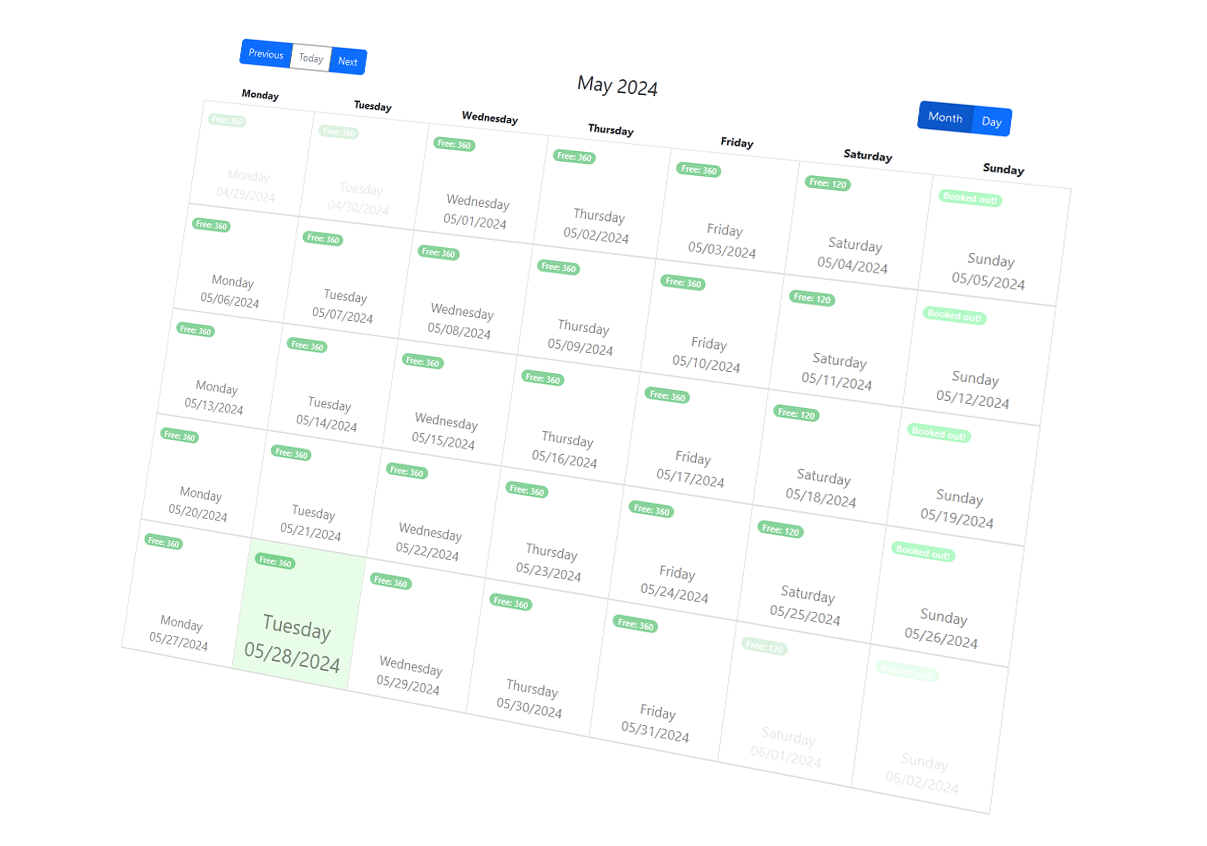
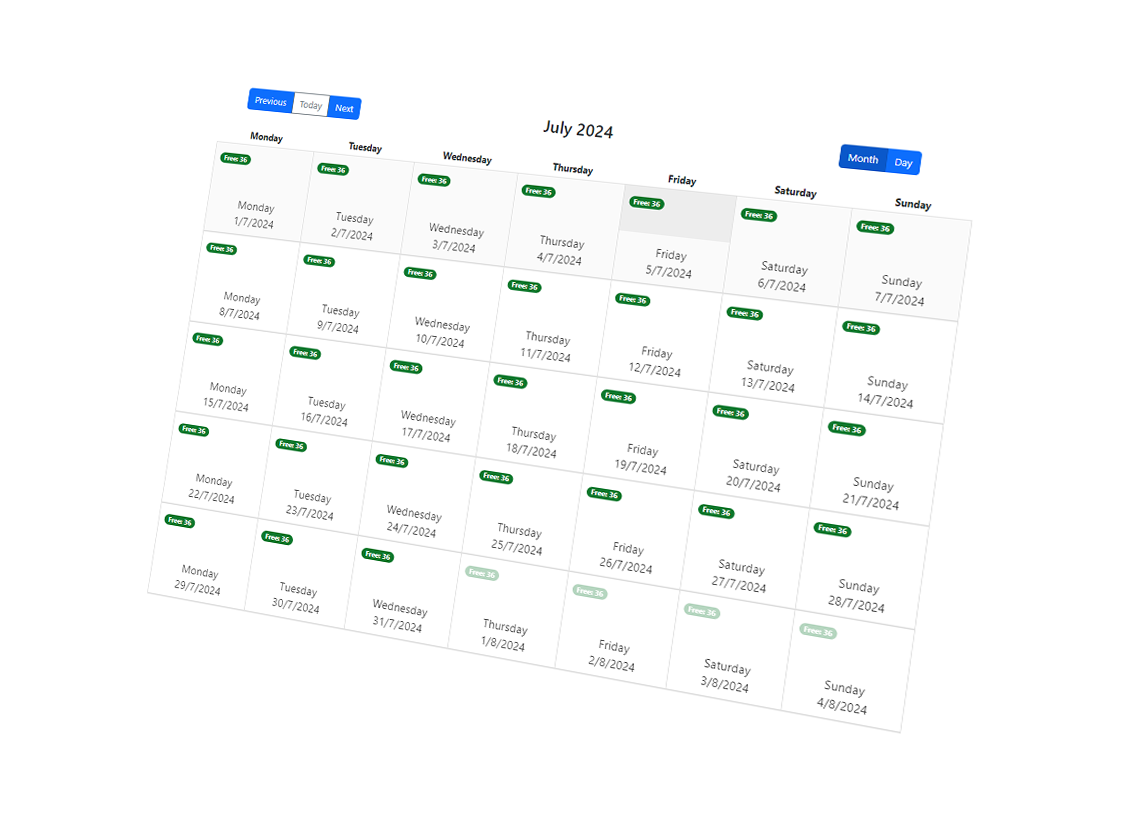
fix: change landing page pictures to current design

diff --git a/frontend/src/app/components/landing/landing-logged-out/landing-logged-out.component.html b/frontend/src/app/components/landing/landing-logged-out/landing-logged-out.component.html
@@ -49,7 +49,7 @@
 <div aria-labelledby="cta-title" class="cta-section" role="region">
   <h2 id="cta-title">Choose the timeslot that best fits your needs</h2>
   <div aria-label="Switch Mode Screenshot" class="cta-image-container" role="img">
-    <img alt="Switch Mode Screenshot" class="cta-image" src="assets/calender_preview_day_2.png">
+    <img alt="Switch Mode Screenshot" class="cta-image" src="assets/calender_preview_day_3.png">
   </div>
 </div>
 

diff --git a/frontend/src/app/components/landing/landing-doctor/landing-doctor.component.html b/frontend/src/app/components/landing/landing-doctor/landing-doctor.component.html
@@ -26,7 +26,7 @@
     </button>
   </div>
   <div aria-label="Log an appointment image" class="image-section" role="img">
-    <img alt="Log an appointment" class="treatment-image" src="assets/treatment.jpg">
+    <img alt="Log an appointment" class="treatment-image" src="assets/treatment.png">
   </div>
 </div>
 

diff --git a/backend/src/main/java/at/ac/tuwien/sepr/groupphase/backend/endpoint/AppointmentEndpoint.java b/backend/src/main/java/at/ac/tuwien/sepr/groupphase/backend/endpoint/AppointmentEndpoint.java
@@ -114,6 +114,11 @@ public class AppointmentEndpoint {
         return appointmentService.getAllAppointmentsFromStartDateToEndDateWithOutpatientDepartmentId(outpatientDepartmentId, startDate, endDate);
     }
 
+    /**
+     * Get all appointments booked on a OutpatientDepartment.
+     *
+     * @return the booked appointments
+     */
     @Secured("PATIENT")
     @GetMapping("/patient")
     public AppointmentPageDto getAppointmentsByPatient(
@@ -127,6 +132,13 @@ public class AppointmentEndpoint {
         return appointmentService.getAppointmentsByPatient(patientId, outpatientDepartmentId, startDate, endDate, page, size);
     }
 
+    /**
+     * Get all appointments.
+     *
+     * @param page the page number
+     * @param size the size of the page
+     * @return a page of all appointments
+     */
     @Secured("SECRETARY")
     @GetMapping("/all")
     public AppointmentPageDto getAllAppointments(
